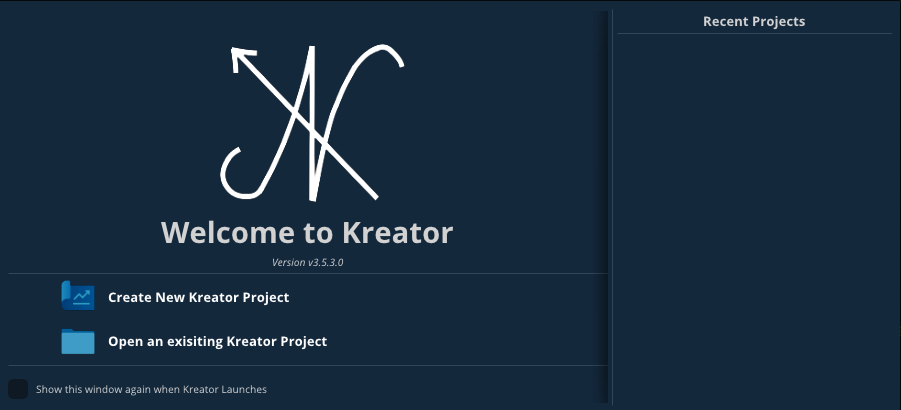
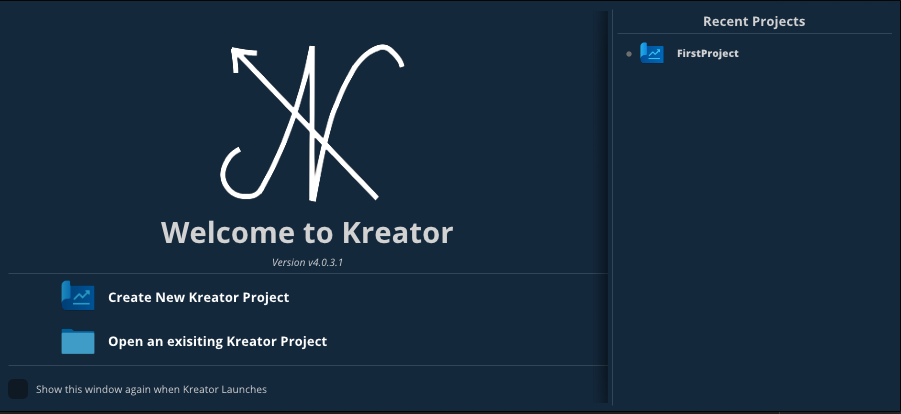
Fixing the README.md

diff --git a/Kreator/Kreator/Application/Kreator.cpp b/Kreator/Kreator/Application/Kreator.cpp
@@ -13,7 +13,7 @@
 namespace Kreator
 {
   /// IKan Engine Version
-  static const std::string KreatorVersion = "3.0";
+  static const std::string KreatorVersion = "3.1";
   
   KreatorApp::KreatorApp(const ApplicationSpecification& appSpec, const KreatorDirectories& kreatorDirectories)
   : Application(appSpec), m_kreatorDirectories(kreatorDirectories)

diff --git a/IKan/Implementation/Core/Application.cpp b/IKan/Implementation/Core/Application.cpp
@@ -10,7 +10,7 @@
 #include "Renderer/RendererStats.hpp"
 
 /// IKan Engine Version
-static const std::string IKanVersion = "3.5";
+static const std::string IKanVersion = "4.0";
 
 namespace IKan
 {

diff --git a/README.md b/README.md
@@ -116,7 +116,7 @@ v {IKanVersion}.{IKanSubVersion}.{KreatorVersion}.{KreatorSubVersion}
 ![](/Kreator/Outputs/WelcomeScreen.png)
 
 - Project Selection
-![](/Kreator/Outputs/ProjectSelection.png
+![](/Kreator/Outputs/ProjectSelection.png)
 
 - Folder Explorer
-![](/Kreator/Outputs/FolderExplorer.png
+![](/Kreator/Outputs/FolderExplorer.png)
